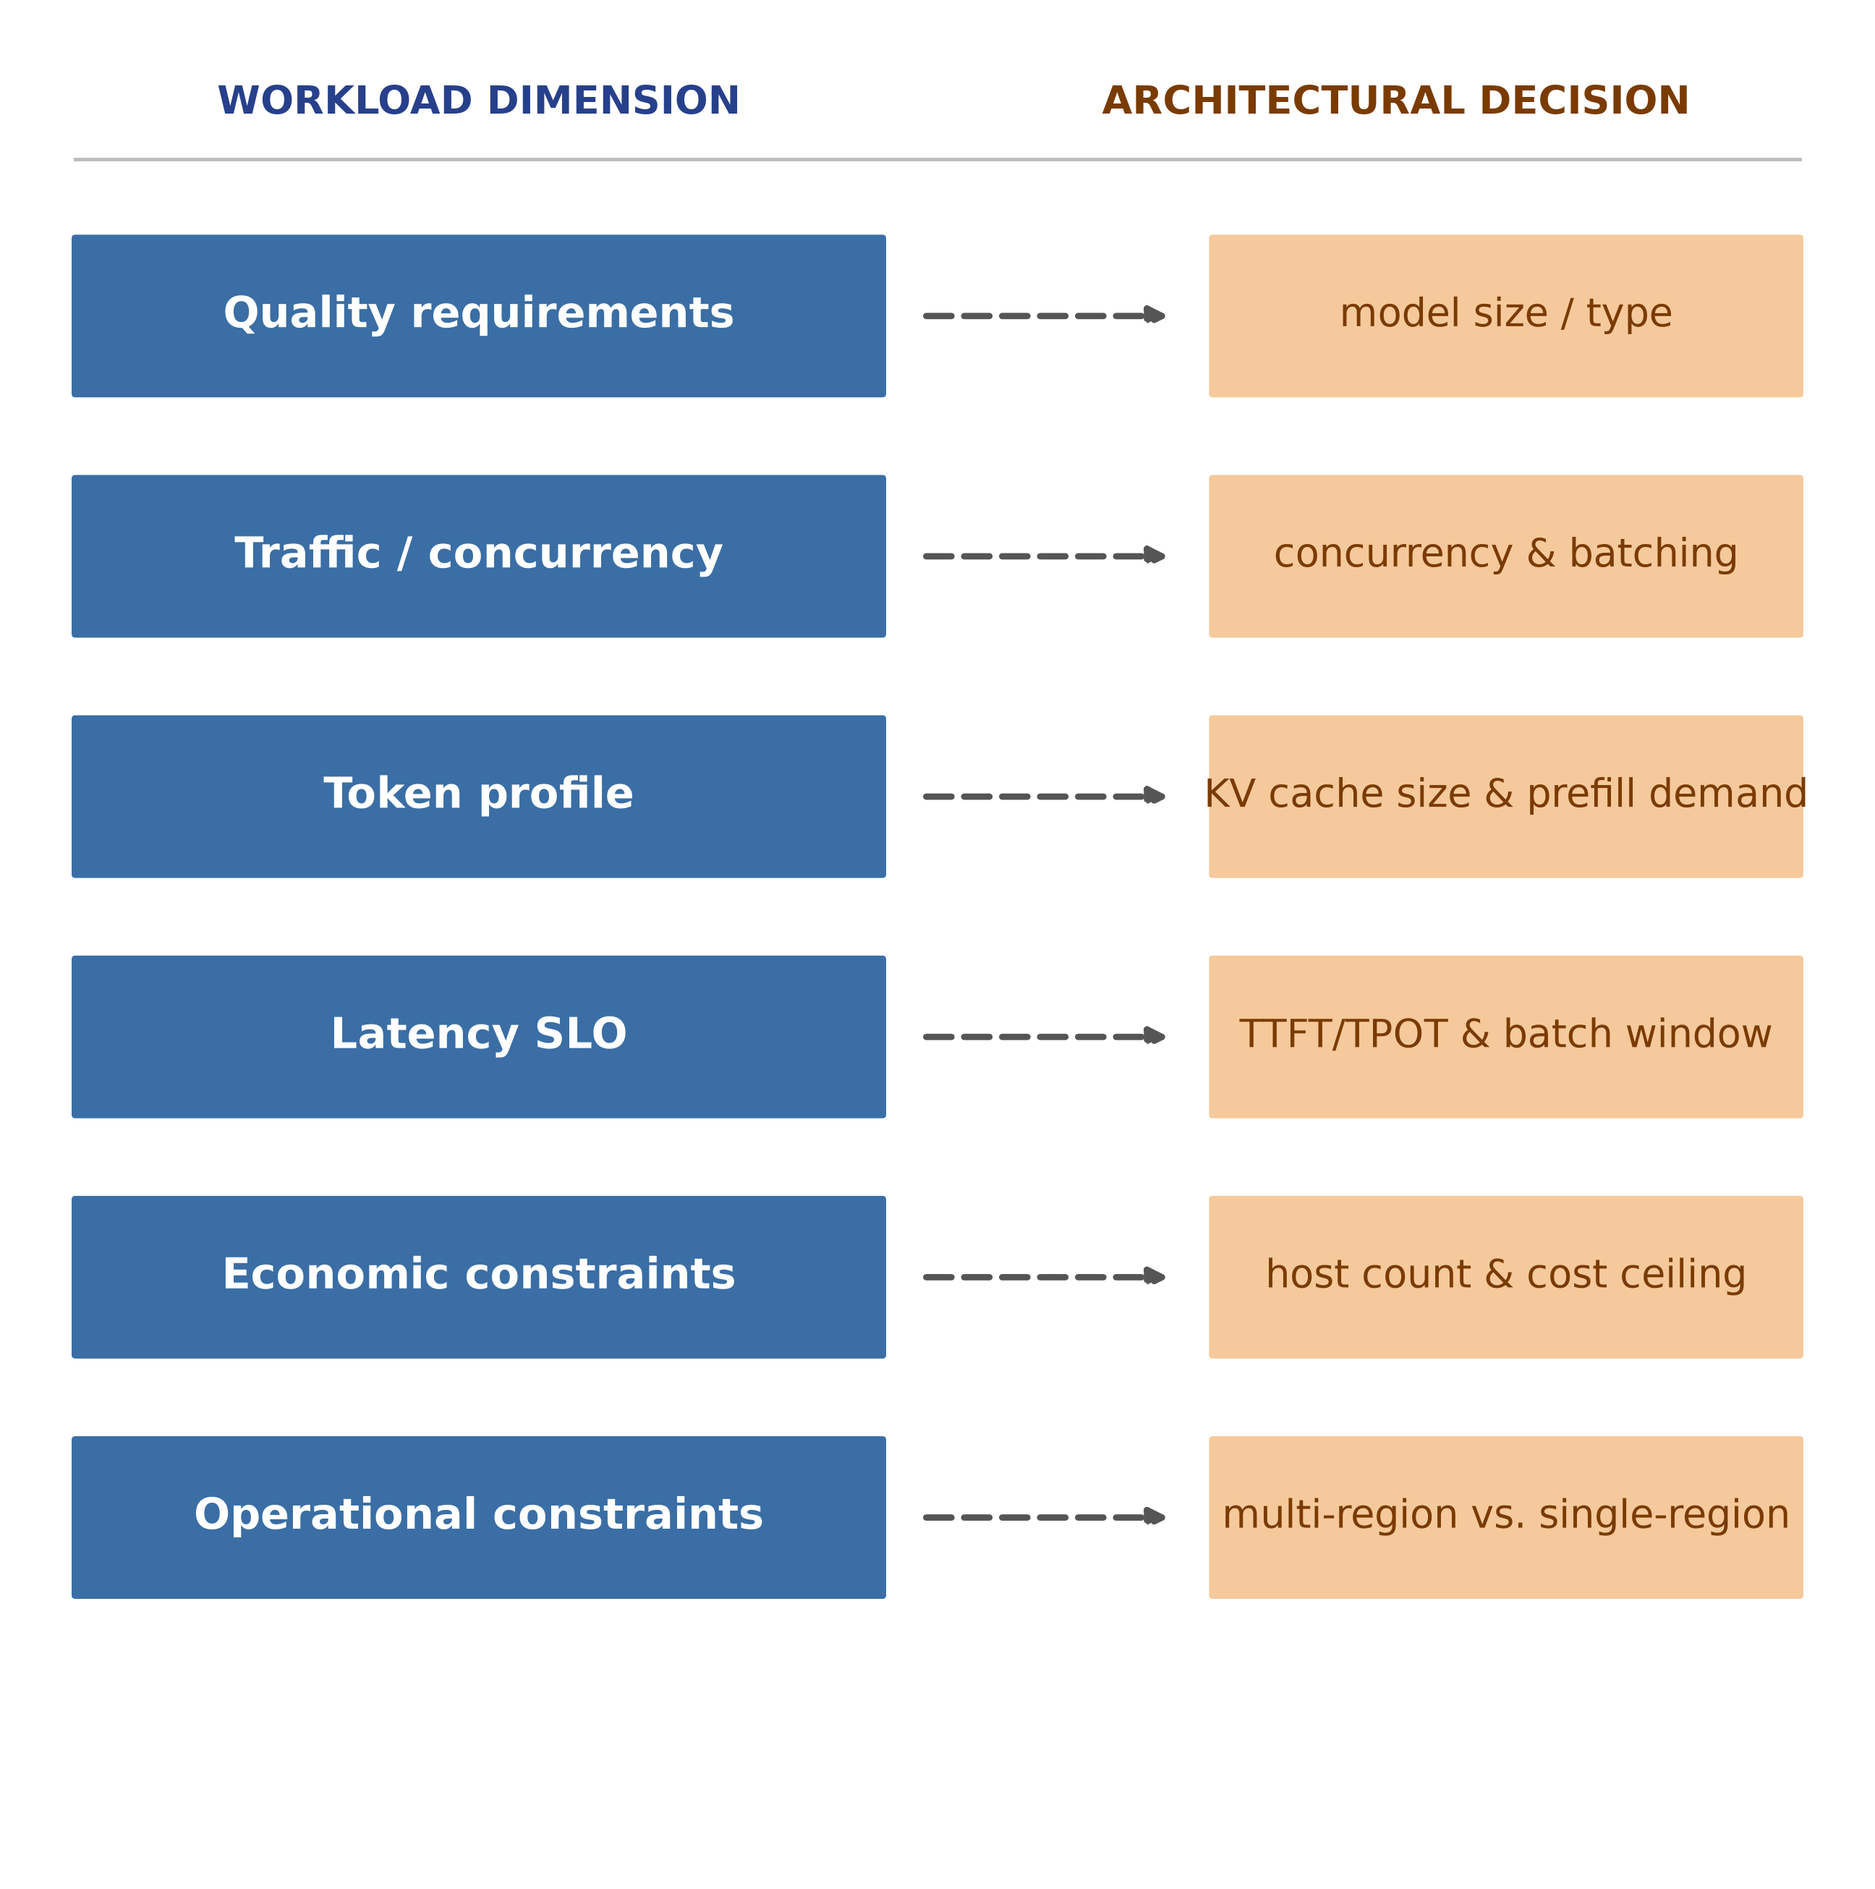
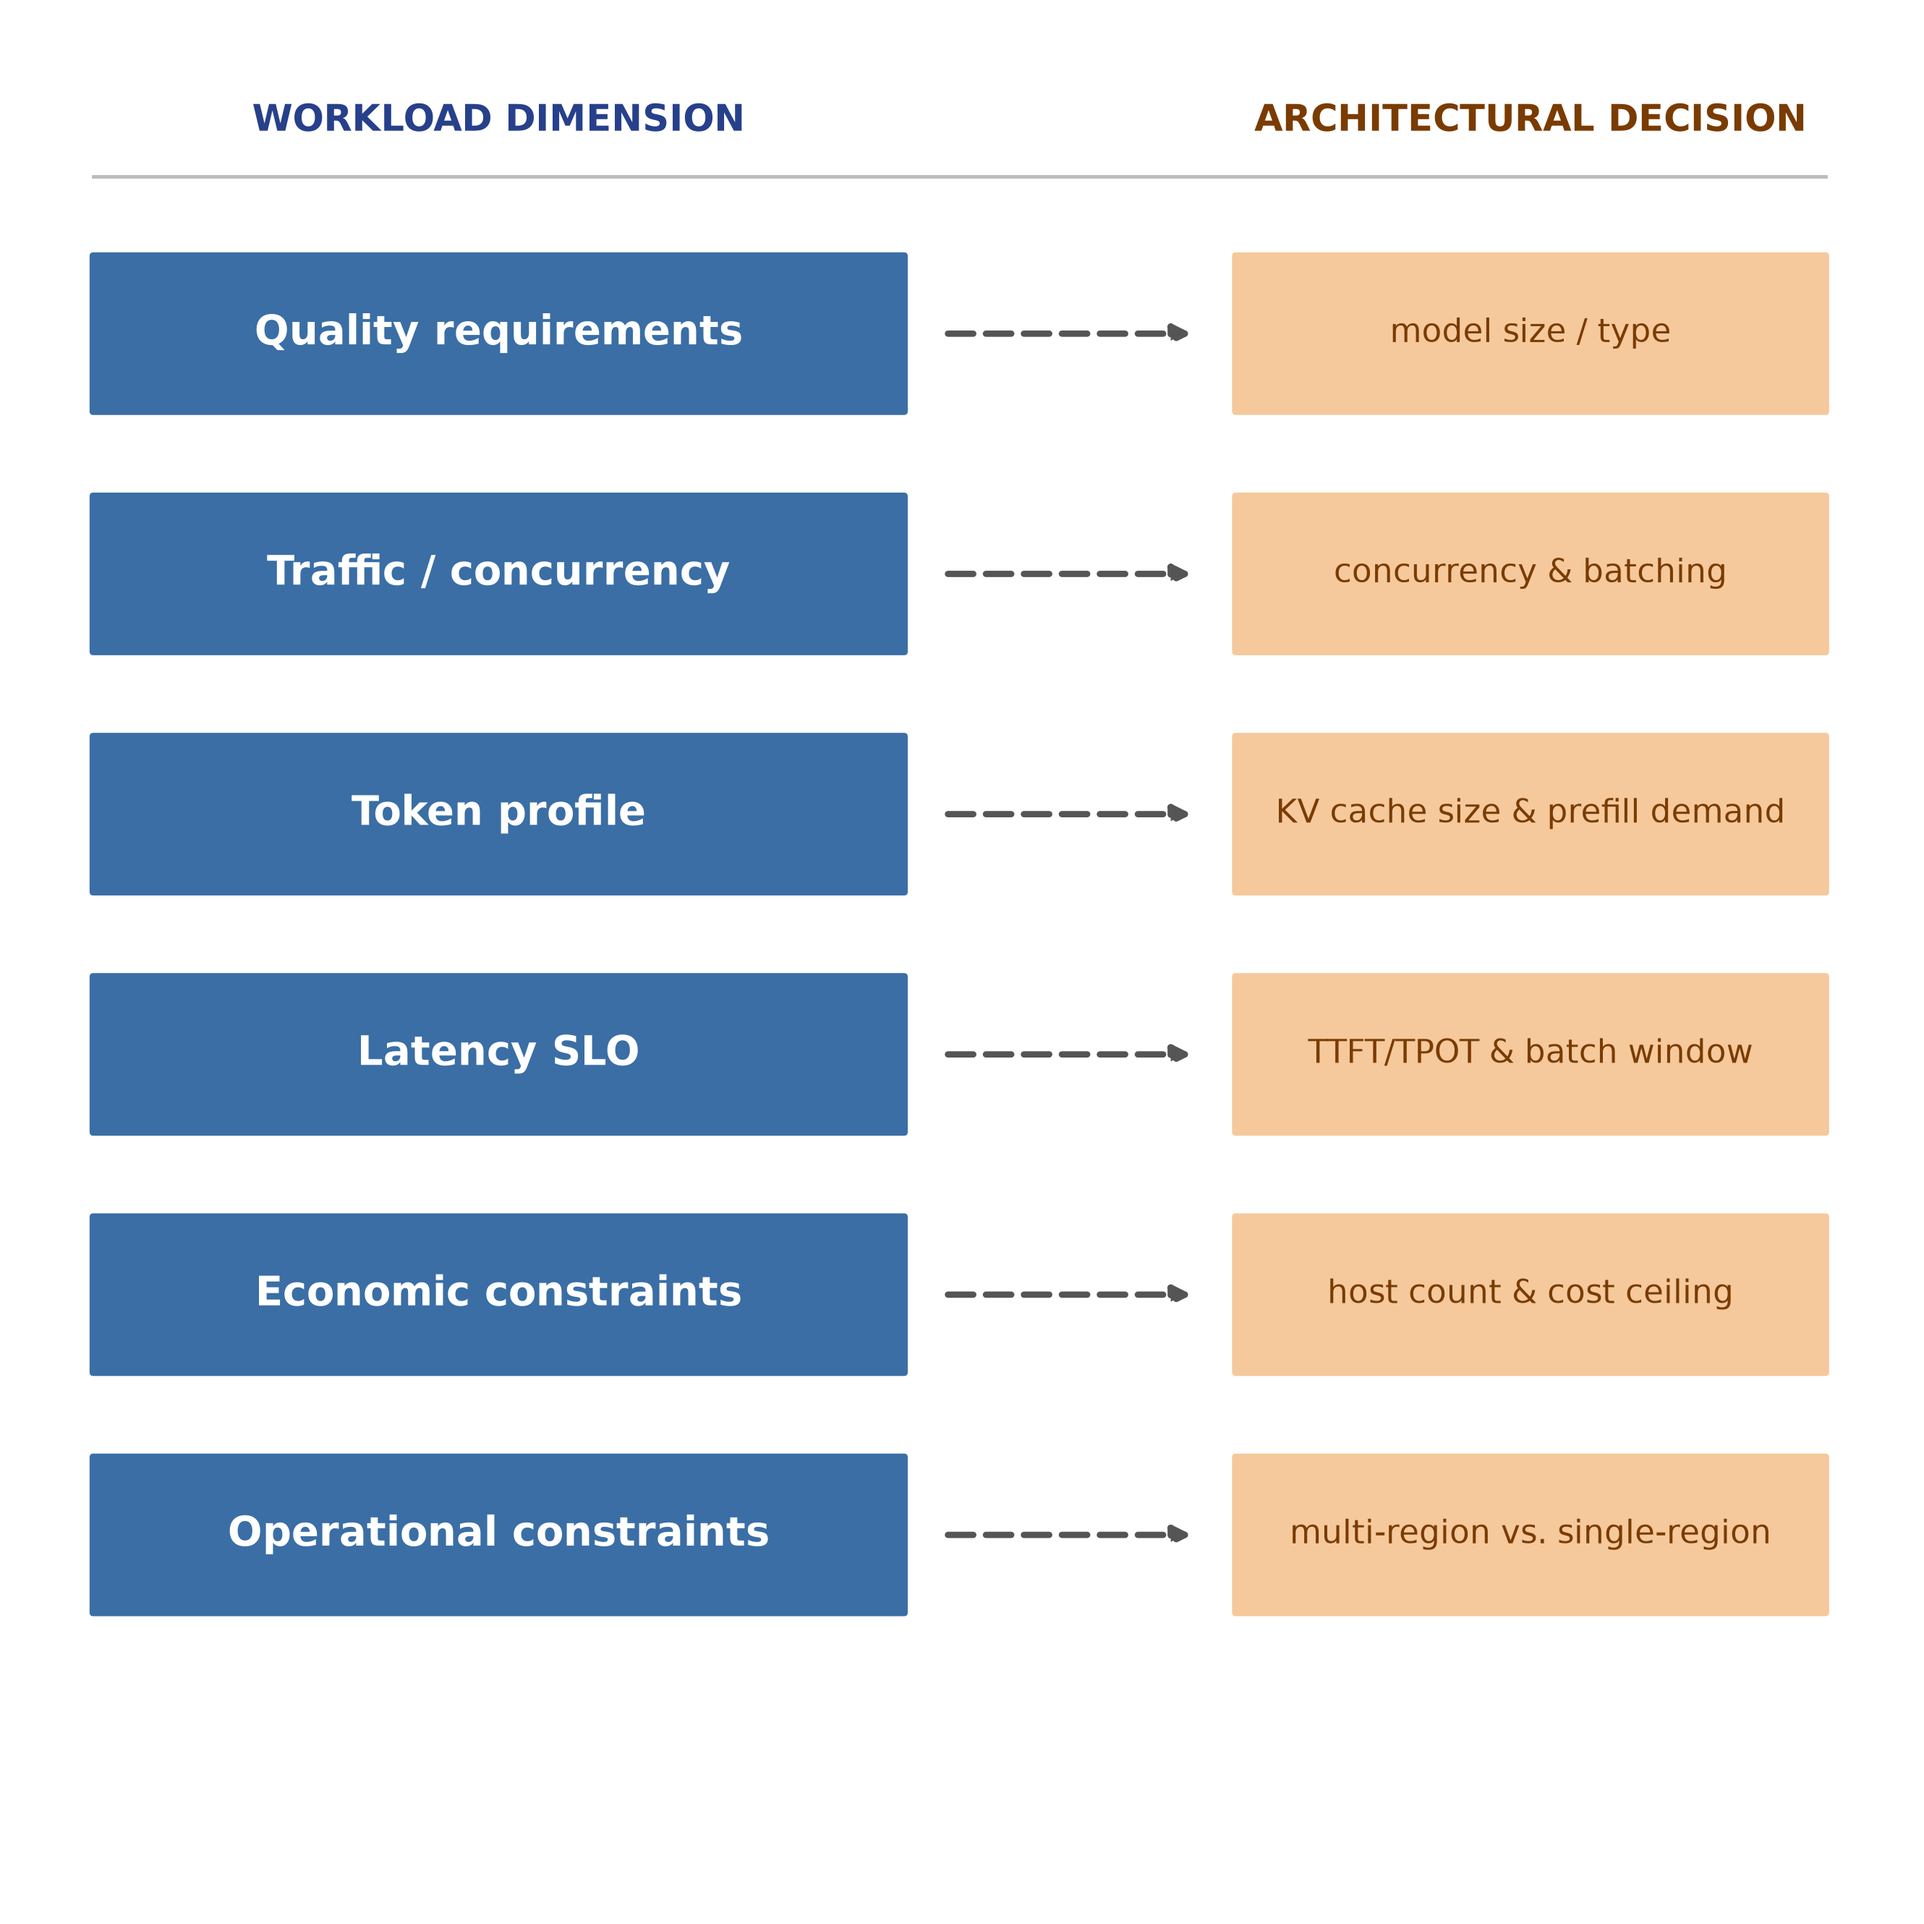
Fix figure readability defects from dual-model review (Fig 4.1/8.2/A.3)
- Fig 8.2 (fig_ch8.py): prefill 9.2K annotation had no white bbox and
  straddled the roofline plateau. Added opaque white bbox and lifted the
  label above the plateau, keeping a leader to the marker.
- Fig 4.1 (fig_batch1.py): 'KV cache size & prefill demand' overran its
  box border and the right column header was off-centre. Reduced right
  font to 9.2 and centred ARCHITECTURAL DECISION over the column.
- Fig A.3 (fig_2703.py): white labels on the two lightest orange bars were
  ~1.9:1 (below the 3:1 large-text floor). Darkened eff/effcap orange to
  #c07a2e/#a8681f (~3.5:1/4.5:1).

Verified each fix on the rendered figure and in the final 449-page plain
book PDF (Fig 4.1 p91, Fig 8.2 p156, Fig A.3 p416).

diff --git a/render/fig_batch1.py b/render/fig_batch1.py
@@ -28,9 +28,9 @@ fig, ax = plt.subplots(figsize=(7.6, 7.6))
 ax.set_xlim(0, 10); ax.set_ylim(0, 10); ax.axis('off')
 dims = ['Quality requirements', 'Traffic / concurrency', 'Token profile', 'Latency SLO', 'Economic constraints', 'Operational constraints']
 cons = ['model size / type', 'concurrency & batching', 'KV cache size & prefill demand', 'TTFT/TPOT & batch window', 'host count & cost ceiling', 'multi-region vs. single-region']
-# column headers (hierarchy: the two reading units)
+# column headers (hierarchy: the two reading units) — aligned to each column centre
 ax.text(2.5, 9.55, 'WORKLOAD DIMENSION', ha='center', va='center', fontsize=10.5, fontweight='bold', color='#27408b')
-ax.text(7.5, 9.55, 'ARCHITECTURAL DECISION', ha='center', va='center', fontsize=10.5, fontweight='bold', color='#7a3b00')
+ax.text(8.1, 9.55, 'ARCHITECTURAL DECISION', ha='center', va='center', fontsize=10.5, fontweight='bold', color='#7a3b00')
 ax.plot([0.3, 9.7], [9.25, 9.25], color='#bbb', lw=1.0)
 for i, (d, c) in enumerate(zip(dims, cons)):
     y = 8.4 - i*1.30
@@ -38,9 +38,12 @@ for i, (d, c) in enumerate(zip(dims, cons)):
     ax.text(2.5, y, d, ha='center', va='center', color='white', fontsize=11.5, fontweight='bold')
     # dashed arrow: the mapping is a heuristic influence, not a deterministic one-to-one
     ax.annotate('', xy=(6.3, y), xytext=(4.9, y), arrowprops=dict(arrowstyle='-|>', lw=1.8, color='#555', linestyle=(0, (4, 2))))
-    # pale orange + dark text: white-on-orange is below the print contrast floor
+    # pale orange + dark text: white-on-orange is below the print contrast floor.
+    # Right-column font kept at 9.2 (down from 10.5) so the two longest labels
+    # ('KV cache size & prefill demand', 'multi-region vs. single-region') fit with
+    # clear side padding instead of overrunning the box borders (review: row-3/row-6).
     ax.add_patch(FancyBboxPatch((6.5, y-0.42), 3.2, 0.84, boxstyle='round,pad=0.02', fc='#f5c99b', ec='none'))
-    ax.text(8.1, y, c, ha='center', va='center', color='#7a3b00', fontsize=10.5)
+    ax.text(8.1, y, c, ha='center', va='center', color='#7a3b00', fontsize=9.2)
 plt.tight_layout()
 plt.savefig(base % (4, 4, 4), dpi=350); plt.close()
 print('Ch04 done')

diff --git a/render/fig_ch8.py b/render/fig_ch8.py
@@ -94,9 +94,14 @@ for name, a, t, tag in pts:
 # label the markers in CLEAR white space (the region above the roofline is
 # unreachable/empty), pointing at each marker with a thin leader so no label
 # straddles a curve or a reference line.
-ax.annotate('prefill 9.2K\n(intensity ≈ 9.2K\nFLOP/byte)', xy=(9200, 989), xytext=(0.86, 0.80),
+# Prefill sits on the plateau corner (top-right, unreachable-empty above it), so
+# place the label fully ABOVE the plateau with an opaque white bbox and a leader
+# down-to the marker; the bbox keeps the plateau line, ridge dotted line and the
+# prefill marker from crossing the glyphs (Loop review: label straddled the plateau).
+ax.annotate('prefill 9.2K\n(intensity ≈ 9.2K\nFLOP/byte)', xy=(9200, 989), xytext=(0.66, 0.885),
             textcoords='axes fraction', fontsize=9, color=colors['prefill'],
             ha='center', va='center',
+            bbox=dict(boxstyle='round,pad=0.20', fc='white', ec='none', alpha=1.0),
             arrowprops=dict(arrowstyle='-', lw=0.9, color=colors['prefill'],
                             shrinkA=2, shrinkB=6))
 # decode batch=1: upper-left empties, pointing down-right to its (0.5,1.7) marker

diff --git a/render/fig_2703.py b/render/fig_2703.py
@@ -18,7 +18,7 @@ steps = [
     ("Agent System", 'cap', '~2025'),
     ("Agent Fleet", 'fleet', '~2026'),
 ]
-colors = {'eff': '#f0b35f', 'effcap': '#cf9240', 'cap': '#5a9bd5', 'fleet': '#8055b5'}
+colors = {'eff': '#c07a2e', 'effcap': '#a8681f', 'cap': '#5a9bd5', 'fleet': '#8055b5'}
 border = {'eff': '--', 'effcap': '--', 'cap': '-', 'fleet': '-'}
 
 n = len(steps)
